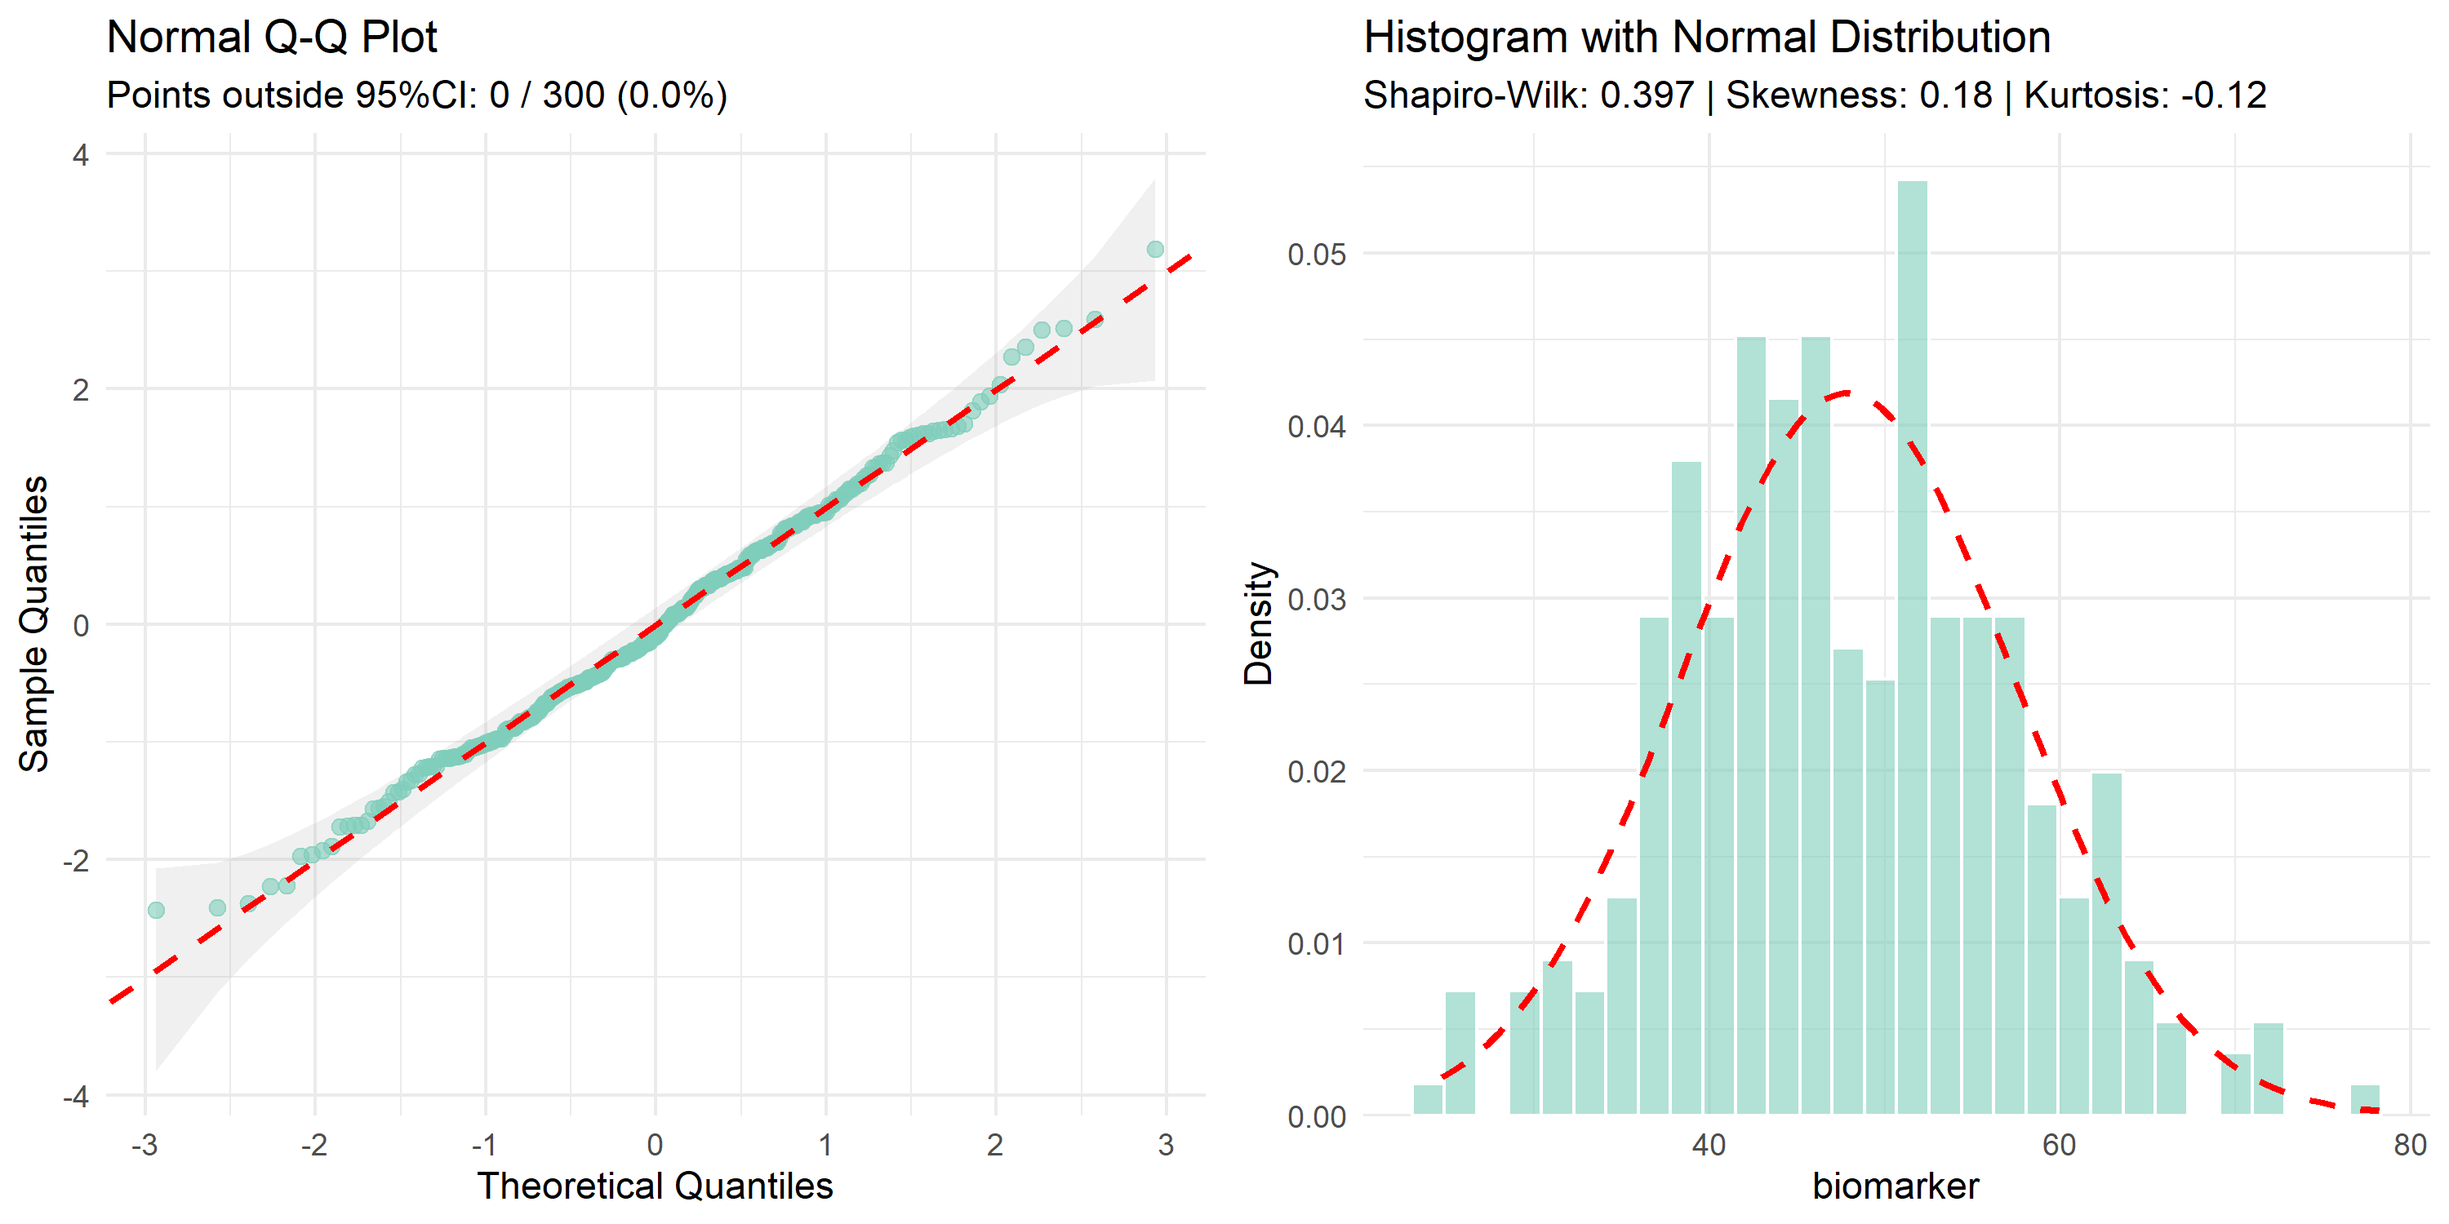
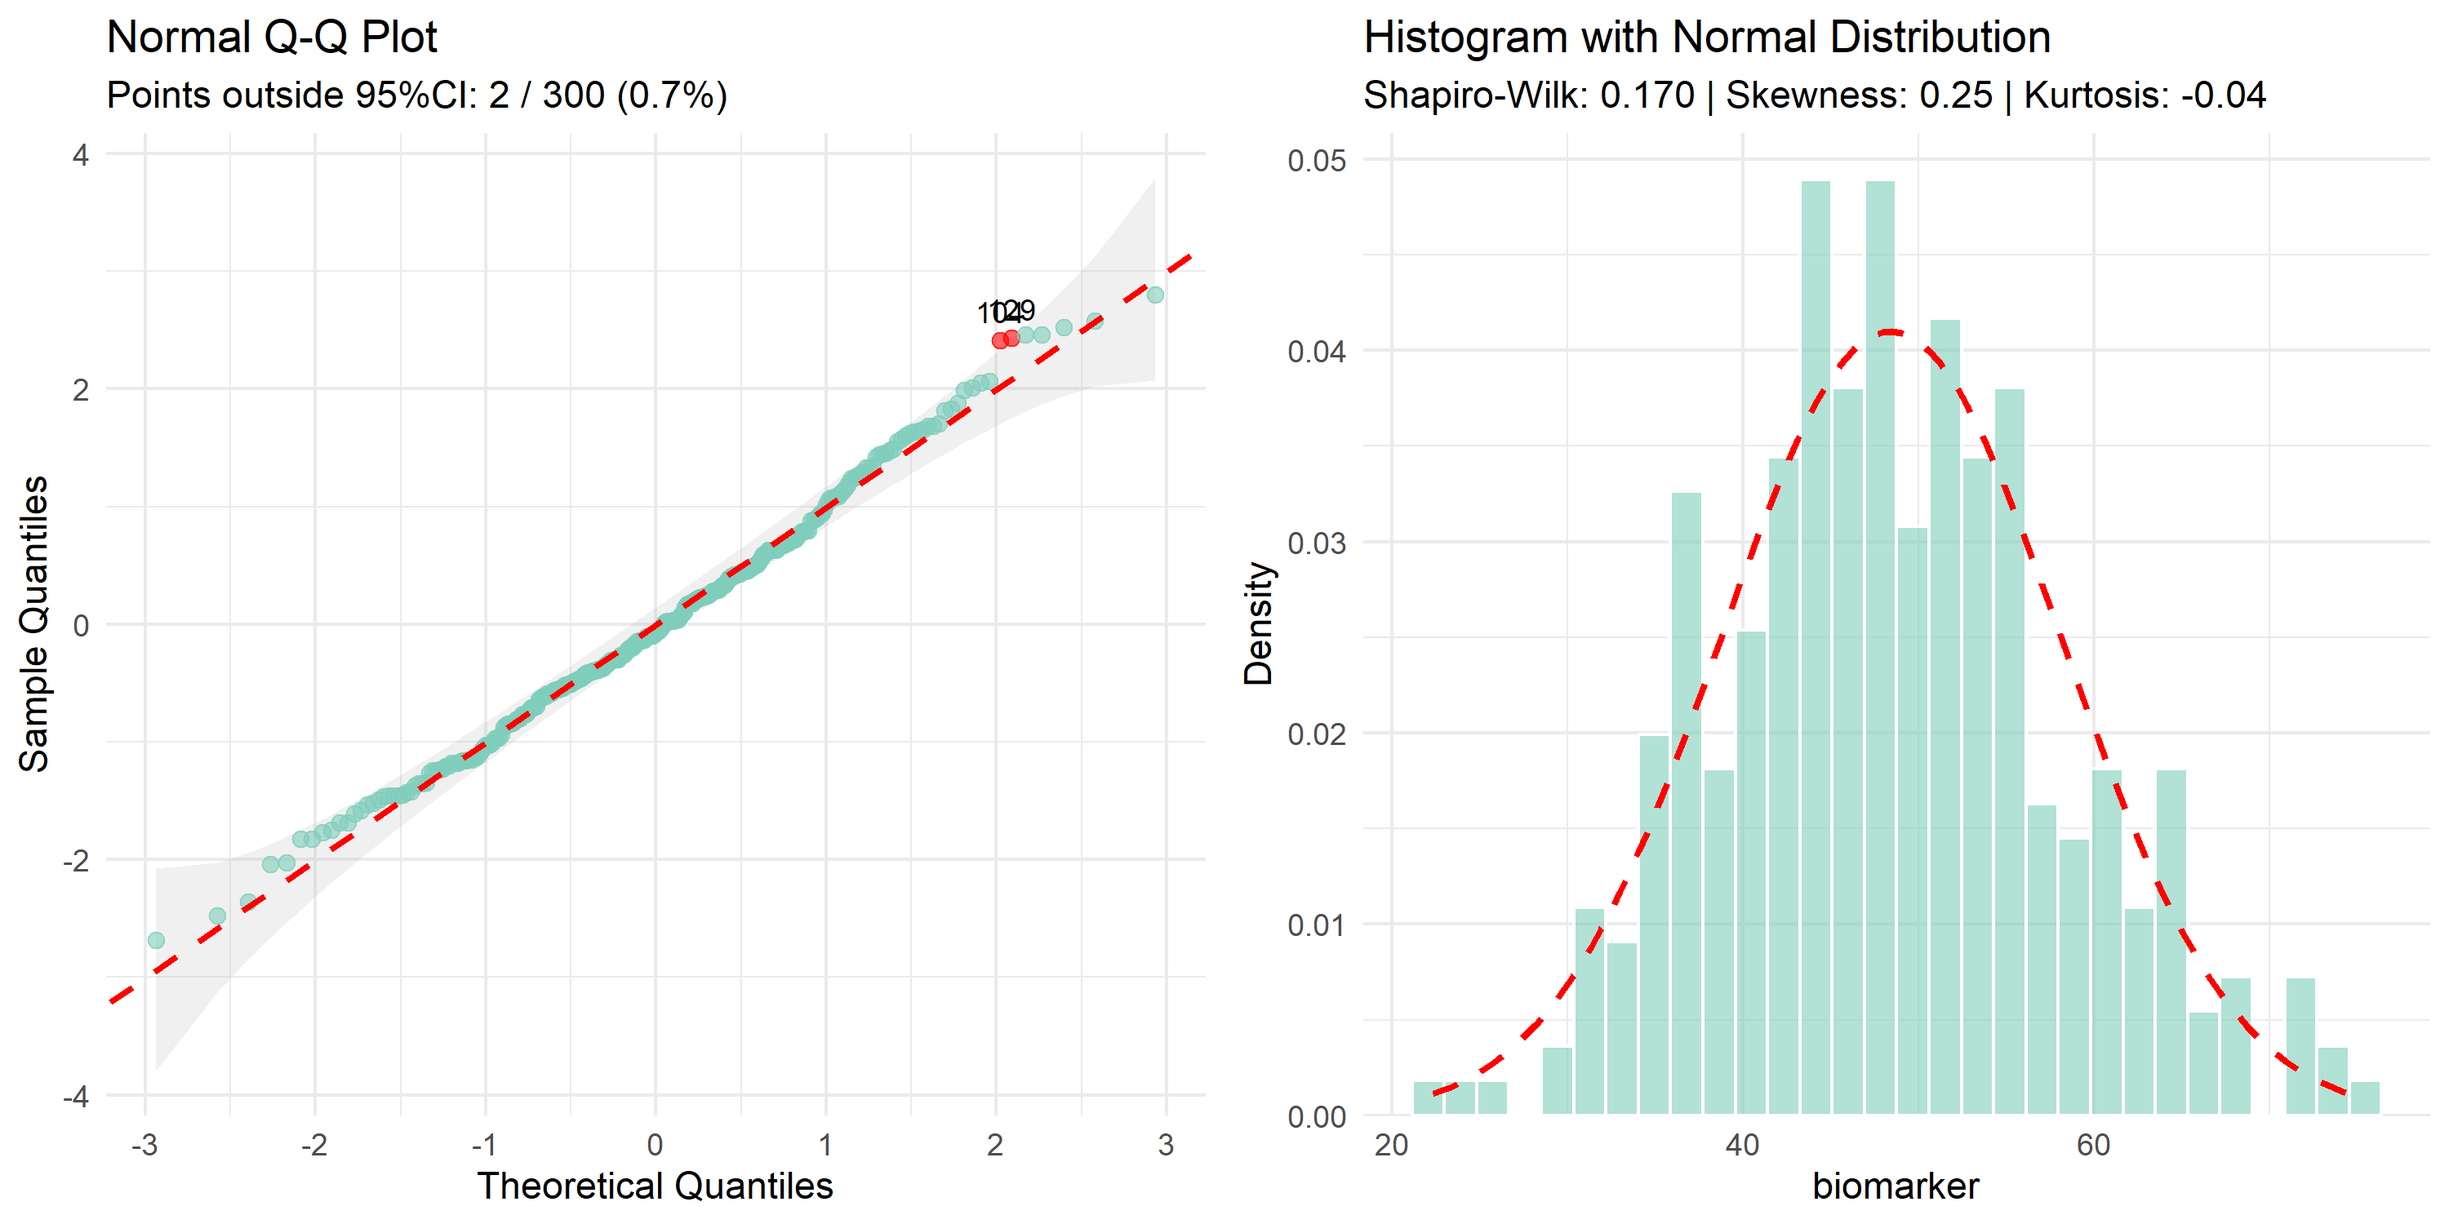
Update README

diff --git a/README.md b/README.md
@@ -49,8 +49,8 @@ The biostats toolbox includes the following exported functions.
   (EDA)**](#summary-and-exploratory-data-analysis-eda)
   - [clinical_data()](#clinical_data) ✔
   - [summary_table()](#summary_table) ✔
-  - [normality()](#normality)
-  - [missing_values()](#missing_values)
+  - [normality()](#normality) ✔
+  - [missing_values()](#missing_values) ✔
 - [**Sample Size and Power
   Calculation**](#sample-size-and-power-calculation)
   - [sample_size()](#sample_size)
@@ -108,21 +108,21 @@ clinical_df <- clinical_data()
 
 head(clinical_df)
 #>   subject_id visit    sex treatment age weight biomarker response
-#> 1        001     1 Female Treatment  40   70.4     28.45     None
-#> 2        001     2 Female Treatment  40   70.4     36.81     None
-#> 3        001     3 Female Treatment  40   70.4     36.55     None
-#> 4        002     1   Male   Placebo  65   64.6     43.49  Partial
-#> 5        002     2   Male   Placebo  65   64.6     53.83 Complete
-#> 6        002     3   Male   Placebo  65   64.6     60.32     None
+#> 1        001     1 Female Treatment  40   66.7     66.34     None
+#> 2        001     2 Female Treatment  40   68.4     46.87  Partial
+#> 3        001     3 Female Treatment  40   68.3     34.48 Complete
+#> 4        002     1   Male   Placebo  65   63.3     57.75     None
+#> 5        002     2   Male   Placebo  65   65.4     58.04     None
+#> 6        002     3   Male   Placebo  65   66.7     35.01  Partial
 
 tail(clinical_df)
 #>     subject_id visit  sex treatment age weight biomarker response
-#> 295        099     1 Male Treatment  29   82.2     53.22     None
-#> 296        099     2 Male Treatment  29   82.2     24.96     None
-#> 297        099     3 Male Treatment  29   82.2     44.27 Complete
-#> 298        100     1 Male Treatment  54   50.2     37.78     None
-#> 299        100     2 Male Treatment  54   50.2     43.94     None
-#> 300        100     3 Male Treatment  54   50.2     72.37 Complete
+#> 295        099     1 Male Treatment  29   83.5     55.12  Partial
+#> 296        099     2 Male Treatment  29   77.8     46.65     None
+#> 297        099     3 Male Treatment  29   81.7     38.13     None
+#> 298        100     1 Male Treatment  54   48.4     51.69  Partial
+#> 299        100     2 Male Treatment  54   49.6     64.01     None
+#> 300        100     3 Male Treatment  54   55.3     63.71 Complete
 ```
 
 ``` r
@@ -131,29 +131,29 @@ clinical_df <- clinical_data(arms = c('Placebo', 'A', 'B'), na_rate = 0.05, drop
 
 head(clinical_df, 10)
 #>    subject_id visit    sex treatment age weight biomarker response
-#> 1         001     1 Female   Placebo  36   75.8     46.79  Partial
-#> 2         001     2 Female   Placebo  36   75.8     54.09  Partial
-#> 3         001     3 Female   Placebo  36   75.8     65.65     None
-#> 4         002     1   Male         A  25   73.1     45.67     None
-#> 5         002     2   Male         A  25   73.1     80.03 Complete
-#> 6         002     3   Male         A  25   73.1     45.34     None
-#> 7         003     1   Male         B  35   99.2     68.62 Complete
-#> 8         003     2   Male         B  35   99.2        NA     <NA>
-#> 9         003     3   Male         B  35   99.2        NA     <NA>
-#> 10        004     1 Female         B  53   60.1     46.44 Complete
+#> 1         001     1 Female         A  49   70.9     36.71     None
+#> 2         001     2 Female         A  49   73.2     53.68 Complete
+#> 3         001     3 Female         A  49   75.6     74.11 Complete
+#> 4         002     1   Male         A  57   55.1     38.79     None
+#> 5         002     2   Male         A  57   54.3     57.20     None
+#> 6         002     3   Male         A  57   57.5     42.78     None
+#> 7         003     1   Male         A  48   65.0     51.48     None
+#> 8         003     2   Male         A  48   70.5     61.62  Partial
+#> 9         003     3   Male         A  48   66.5     43.96  Partial
+#> 10        004     1   Male         A  36   96.7     46.47     None
 
 tail(clinical_df, 10)
 #>     subject_id visit    sex treatment age weight biomarker response
-#> 291        097     3   Male   Placebo  47   74.7     48.46     None
-#> 292        098     1 Female         B  50   76.0     54.35     None
-#> 293        098     2 Female         B  50   76.0     71.05     None
-#> 294        098     3 Female         B  50   76.0     41.29  Partial
-#> 295        099     1 Female   Placebo  53   83.1     51.99     None
-#> 296        099     2 Female   Placebo  53   83.1     82.51 Complete
-#> 297        099     3 Female   Placebo  53   83.1     53.03  Partial
-#> 298        100     1   Male         A  27   62.5        NA Complete
-#> 299        100     2   Male         A  27   62.5     53.75  Partial
-#> 300        100     3   Male         A  27   62.5     53.18     <NA>
+#> 291        097     3   Male   Placebo  32   80.8     25.36  Partial
+#> 292        098     1 Female         A  54   73.6     58.78     <NA>
+#> 293        098     2 Female         A  54   72.9     35.88  Partial
+#> 294        098     3 Female         A  54   72.4     48.28     None
+#> 295        099     1 Female         A  34   75.1     47.36     None
+#> 296        099     2 Female         A  34   72.7     69.89     None
+#> 297        099     3 Female         A  34   75.3     23.68     <NA>
+#> 298        100     1   Male         A  34   58.4     49.71  Partial
+#> 299        100     2   Male         A  34   55.0     54.50     None
+#> 300        100     3   Male         A  34   60.0     42.96     None
 ```
 
 #### **summary_table()**
@@ -188,12 +188,12 @@ clinical_summary <- summary_table(clinical_df,
 
 | variable | n | summary | normality |
 |:---|---:|:---|:---|
-| sex | 300 | Male: 168 (56.0%); Female: 132 (44.0%) | NA |
-| treatment | 300 | Placebo: 168 (56.0%); Treatment: 132 (44.0%) | NA |
-| age | 300 | Median (IQR): 45.00 (24.00) | \< 0.001 |
-| weight | 300 | Median (IQR): 70.00 (20.80) | \< 0.001 |
-| biomarker | 300 | Mean (SD): 47.85 (9.52) | 0.397 |
-| response | 300 | Complete: 85 (28.3%); Partial: 63 (21.0%); None: 152 (50.7%) | NA |
+| sex | 300 | Male: 138 (46.0%); Female: 162 (54.0%) | NA |
+| treatment | 300 | Placebo: 153 (51.0%); Treatment: 147 (49.0%) | NA |
+| age | 300 | Median (IQR): 47.00 (22.50) | \< 0.001 |
+| weight | 300 | Median (IQR): 70.00 (21.67) | \< 0.001 |
+| biomarker | 300 | Mean (SD): 47.75 (10.54) | 0.102 |
+| response | 300 | Complete: 84 (28.0%); Partial: 69 (23.0%); None: 147 (49.0%) | NA |
 
 ``` r
 # Grouped summary for each tratment group
@@ -204,11 +204,11 @@ clinical_summary <- summary_table(clinical_df,
 
 | variable | n | Placebo (Group A) | Treatment (Group B) | normality | test | p_value |
 |:---|:---|:---|:---|:---|:---|:---|
-| sex | A: 168, B: 132 | Male: 90 (53.6%); Female: 78 (46.4%) | Male: 78 (59.1%); Female: 54 (40.9%) | NA | Chi-squared | 0.339 |
-| age | A: 168, B: 132 | Median (IQR): 43.00 (21.25) | Median (IQR): 46.00 (27.50) | A: 0.002, B: \< 0.001 | Mann-Whitney U | 0.608 |
-| weight | A: 168, B: 132 | Median (IQR): 68.85 (21.92) | Median (IQR): 70.40 (17.02) | A: 0.002, B: 0.006 | Mann-Whitney U | 0.786 |
-| biomarker | A: 168, B: 132 | Median (IQR): 48.84 (11.61) | Median (IQR): 45.04 (15.00) | A: 0.798, B: 0.031 | Mann-Whitney U | 0.008 |
-| response | A: 168, B: 132 | Complete: 38 (22.6%); Partial: 35 (20.8%); None: 95 (56.5%) | Complete: 47 (35.6%); Partial: 28 (21.2%); None: 57 (43.2%) | NA | Chi-squared | 0.030 |
+| sex | A: 153, B: 147 | Male: 66 (43.1%); Female: 87 (56.9%) | Male: 72 (49.0%); Female: 75 (51.0%) | NA | Chi-squared | 0.310 |
+| age | A: 153, B: 147 | Median (IQR): 47.00 (24.00) | Median (IQR): 50.00 (22.00) | A: 0.001, B: 0.002 | Mann-Whitney U | 0.392 |
+| weight | A: 153, B: 147 | Median (IQR): 70.00 (18.00) | Median (IQR): 70.00 (24.85) | A: 0.002, B: 0.006 | Mann-Whitney U | 0.835 |
+| biomarker | A: 153, B: 147 | Mean (SD): 49.03 (9.96) | Mean (SD): 46.42 (10.99) | A: 0.114, B: 0.101 | Welch t-test | 0.032 |
+| response | A: 153, B: 147 | Complete: 27 (17.6%); Partial: 42 (27.5%); None: 84 (54.9%) | Complete: 57 (38.8%); Partial: 27 (18.4%); None: 63 (42.9%) | NA | Chi-squared | \< 0.001 |
 
 ``` r
 # Grouped summary for each tratment group with all stats
@@ -220,11 +220,11 @@ clinical_summary <- summary_table(clinical_df,
 
 | variable | n | Placebo (Group A) | Treatment (Group B) | normality | test | p_value |
 |:---|:---|:---|:---|:---|:---|:---|
-| sex | A: 168, B: 132 | Male: 90 (53.6%); Female: 78 (46.4%) | Male: 78 (59.1%); Female: 54 (40.9%) | NA | Chi-squared | 0.339 |
-| age | A: 168, B: 132 | Mean (SD): 44.93 (16.2); Median (IQR): 43.00 (35.0,56.2); Range: 18.00,85.00 | Mean (SD): 45.09 (16.2); Median (IQR): 46.00 (28.8,56.2); Range: 18.00,79.00 | A: 0.002, B: \< 0.001 | Mann-Whitney U | 0.608 |
-| weight | A: 168, B: 132 | Mean (SD): 71.08 (15.7); Median (IQR): 68.85 (60.2,82.1); Range: 45.00,116.20 | Mean (SD): 70.89 (13.2); Median (IQR): 70.40 (63.9,80.9); Range: 45.00,108.60 | A: 0.002, B: 0.006 | Mann-Whitney U | 0.786 |
-| biomarker | A: 168, B: 132 | Mean (SD): 48.99 (9.0); Median (IQR): 48.84 (43.1,54.7); Range: 24.74,72.57 | Mean (SD): 46.41 (10.0); Median (IQR): 45.04 (38.5,53.5); Range: 24.96,78.20 | A: 0.798, B: 0.031 | Mann-Whitney U | 0.008 |
-| response | A: 168, B: 132 | Complete: 38 (22.6%); Partial: 35 (20.8%); None: 95 (56.5%) | Complete: 47 (35.6%); Partial: 28 (21.2%); None: 57 (43.2%) | NA | Chi-squared | 0.030 |
+| sex | A: 153, B: 147 | Male: 66 (43.1%); Female: 87 (56.9%) | Male: 72 (49.0%); Female: 75 (51.0%) | NA | Chi-squared | 0.310 |
+| age | A: 153, B: 147 | Mean (SD): 45.27 (15.5); Median (IQR): 47.00 (34.0,58.0); Range: 18.00,79.00 | Mean (SD): 46.73 (15.8); Median (IQR): 50.00 (37.0,59.0); Range: 18.00,85.00 | A: 0.001, B: 0.002 | Mann-Whitney U | 0.392 |
+| weight | A: 153, B: 147 | Mean (SD): 69.40 (15.3); Median (IQR): 70.00 (60.2,78.2); Range: 45.00,114.00 | Mean (SD): 69.72 (15.2); Median (IQR): 70.00 (57.5,82.3); Range: 45.00,105.50 | A: 0.002, B: 0.006 | Mann-Whitney U | 0.835 |
+| biomarker | A: 153, B: 147 | Mean (SD): 49.03 (10.0); Median (IQR): 48.57 (42.9,54.9); Range: 22.42,77.47 | Mean (SD): 46.42 (11.0); Median (IQR): 45.54 (39.3,55.5); Range: 14.93,76.75 | A: 0.114, B: 0.101 | Welch t-test | 0.032 |
+| response | A: 153, B: 147 | Complete: 27 (17.6%); Partial: 42 (27.5%); None: 84 (54.9%) | Complete: 57 (38.8%); Partial: 27 (18.4%); None: 63 (42.9%) | NA | Chi-squared | \< 0.001 |
 
 ``` r
 # Grouped summary for each tratment group with effect size
@@ -236,11 +236,11 @@ clinical_summary <- summary_table(clinical_df,
 
 | variable | n | Placebo (Group A) | Treatment (Group B) | normality | test | p_value | effect_size | effect_param |
 |:---|:---|:---|:---|:---|:---|:---|:---|:---|
-| sex | A: 168, B: 132 | Male: 90 (53.6%); Female: 78 (46.4%) | Male: 78 (59.1%); Female: 54 (40.9%) | NA | Chi-squared | 0.339 | 0.06 | Cramer’s V |
-| age | A: 168, B: 132 | Median (IQR): 43.00 (21.25) | Median (IQR): 46.00 (27.50) | A: 0.002, B: \< 0.001 | Mann-Whitney U | 0.608 | 1.13 | r |
-| weight | A: 168, B: 132 | Median (IQR): 68.85 (21.92) | Median (IQR): 70.40 (17.02) | A: 0.002, B: 0.006 | Mann-Whitney U | 0.786 | 1.11 | r |
-| biomarker | A: 168, B: 132 | Median (IQR): 48.84 (11.61) | Median (IQR): 45.04 (15.00) | A: 0.798, B: 0.031 | Mann-Whitney U | 0.008 | 0.95 | r |
-| response | A: 168, B: 132 | Complete: 38 (22.6%); Partial: 35 (20.8%); None: 95 (56.5%) | Complete: 47 (35.6%); Partial: 28 (21.2%); None: 57 (43.2%) | NA | Chi-squared | 0.030 | 0.15 | Cramer’s V |
+| sex | A: 153, B: 147 | Male: 66 (43.1%); Female: 87 (56.9%) | Male: 72 (49.0%); Female: 75 (51.0%) | NA | Chi-squared | 0.310 | 0.06 | Cramer’s V |
+| age | A: 153, B: 147 | Median (IQR): 47.00 (24.00) | Median (IQR): 50.00 (22.00) | A: 0.001, B: 0.002 | Mann-Whitney U | 0.392 | 0.96 | r |
+| weight | A: 153, B: 147 | Median (IQR): 70.00 (18.00) | Median (IQR): 70.00 (24.85) | A: 0.002, B: 0.006 | Mann-Whitney U | 0.835 | 0.92 | r |
+| biomarker | A: 153, B: 147 | Mean (SD): 49.03 (9.96) | Mean (SD): 46.42 (10.99) | A: 0.114, B: 0.101 | Welch t-test | 0.032 | 0.25 | Cohen’s d |
+| response | A: 153, B: 147 | Complete: 27 (17.6%); Partial: 42 (27.5%); None: 84 (54.9%) | Complete: 57 (38.8%); Partial: 27 (18.4%); None: 63 (42.9%) | NA | Chi-squared | \< 0.001 | 0.24 | Cramer’s V |
 
 #### **normality()**
 
@@ -261,44 +261,130 @@ plot and histogram.
 ##### Examples
 
 ``` r
-# Normal data
-normality('biomarker',
-          data = clinical_df)
+clinical_df <- clinical_data()
+
+# Normal distribution
+normality("biomarker", data = clinical_df)
 #> 
 #> Normality Test for 'biomarker' 
 #> 
 #> n = 300 
-#> mean (SD) = 47.85 (9.5) 
-#> median (IQR) = 46.92 (13.1) 
+#> mean (SD) = 48.42 (9.7) 
+#> median (IQR) = 47.74 (12.2) 
 #> 
-#> Shapiro-Wilk: W = 0.995, p = 0.397 
-#> Skewness: 0.18 
-#> Kurtosis: -0.12 
+#> Shapiro-Wilk: W = 0.993, p = 0.170 
+#> Skewness: 0.25 
+#> Kurtosis: -0.04 
 #> 
-#> Data is  normally distributed.
+#> Data is normally distributed. 
+#> (Use outliers = TRUE to see outliers [2]).
 ```
 
 <img src="man/figures/README-unnamed-chunk-13-1.png" width="100%" />
 
 ``` r
-# Skewed data (show rows of outliers)
-normality('weight',
-          data = clinical_df,
-          outliers = TRUE)
+
+# Non-normal distribution
+normality("weight", data = clinical_df)
 #> 
 #> Normality Test for 'weight' 
 #> 
 #> n = 300 
-#> mean (SD) = 70.99 (14.6) 
-#> median (IQR) = 70.00 (20.8) 
+#> mean (SD) = 70.43 (15.6) 
+#> median (IQR) = 70.00 (25.4) 
 #> 
-#> Shapiro-Wilk: W = 0.977, p = < 0.001 
-#> Skewness: 0.34 
-#> Kurtosis: 0.13 
+#> Shapiro-Wilk: W = 0.972, p = < 0.001 
+#> Skewness: 0.29 
+#> Kurtosis: -0.67 
 #> 
-#> Data is  not normally distributed. 
+#> Data is not normally distributed. 
+#> (Use outliers = TRUE to see outliers [58]).
+```
+
+<img src="man/figures/README-unnamed-chunk-13-2.png" width="100%" />
+
+``` r
+
+# With outliers displayed
+normality("weight", data = clinical_df, outliers = TRUE)
 #> 
-#> OUTLIERS (row indices): 22, 23, 24, 25, 26, 51, 139, 46, 47, 121
+#> Normality Test for 'weight' 
+#> 
+#> n = 300 
+#> mean (SD) = 70.43 (15.6) 
+#> median (IQR) = 70.00 (25.4) 
+#> 
+#> Shapiro-Wilk: W = 0.972, p = < 0.001 
+#> Skewness: 0.29 
+#> Kurtosis: -0.67 
+#> 
+#> Data is not normally distributed. 
+#> 
+#> OUTLIERS (row indices): 28, 29, 30, 37, 38, 39, 121, 122, 101, 172, 32, 107, 213, 194, 193, 33, 85, 86, 61, 51, 276, 49, 274, 177, 175, 50, 197, 133, 174, 108, 113, 87, 102, 176, 112, 158, 259, 200, 31, 198, 114, 201, 170, 205, 260, 279, 199, 277, 278, 156, 115, 157, 159, 25, 206, 169, 117, 230
+```
+
+<img src="man/figures/README-unnamed-chunk-13-3.png" width="100%" />
+
+#### **missing_values()**
+
+##### Description
+
+Analyzes missing values in a dataframe, providing counts and percentages
+per column with visualizations.
+
+##### Parameters
+
+| Parameter | Description | Default |
+|----|----|----|
+| `df` | A dataframe to analyze for missing values | `Required` |
+| `color` | Character; color for missing values | `"#7fcdbb"` |
+| `max_heatmap_rows` | Logical; if TRUE, shows all variables including those without missing values | `FALSE` |
+
+##### Examples
+
+``` r
+clinical_df <- clinical_data(na_rate = 0.05)
+
+# Missing value analysis of only variables with missing values
+missing_values(clinical_df)
+#> 
+#> Missing Value Analysis
+#> 
+#> n: 300, variables: 8
+#> Complete cases: 257 / 300 (85.7%)
+#> Missing cells: 45 / 2400 (1.9%)
+#> 
+#> Variables with missing values: 3 of 8 (37.5%)
+#> 
+#>           n_missing pct_missing
+#> response         27        9.00
+#> weight           11        3.67
+#> biomarker         7        2.33
 ```
 
 <img src="man/figures/README-unnamed-chunk-14-1.png" width="100%" />
+
+``` r
+# Show all variables including those without missing values
+missing_values(clinical_df, all = TRUE)
+#> 
+#> Missing Value Analysis
+#> 
+#> n: 300, variables: 8
+#> Complete cases: 257 / 300 (85.7%)
+#> Missing cells: 45 / 2400 (1.9%)
+#> 
+#> Variables with missing values: 3 of 8 (37.5%)
+#> 
+#>            n_missing pct_missing
+#> response          27        9.00
+#> weight            11        3.67
+#> biomarker          7        2.33
+#> subject_id         0        0.00
+#> visit              0        0.00
+#> sex                0        0.00
+#> treatment          0        0.00
+#> age                0        0.00
+```
+
+<img src="man/figures/README-unnamed-chunk-14-2.png" width="100%" />
